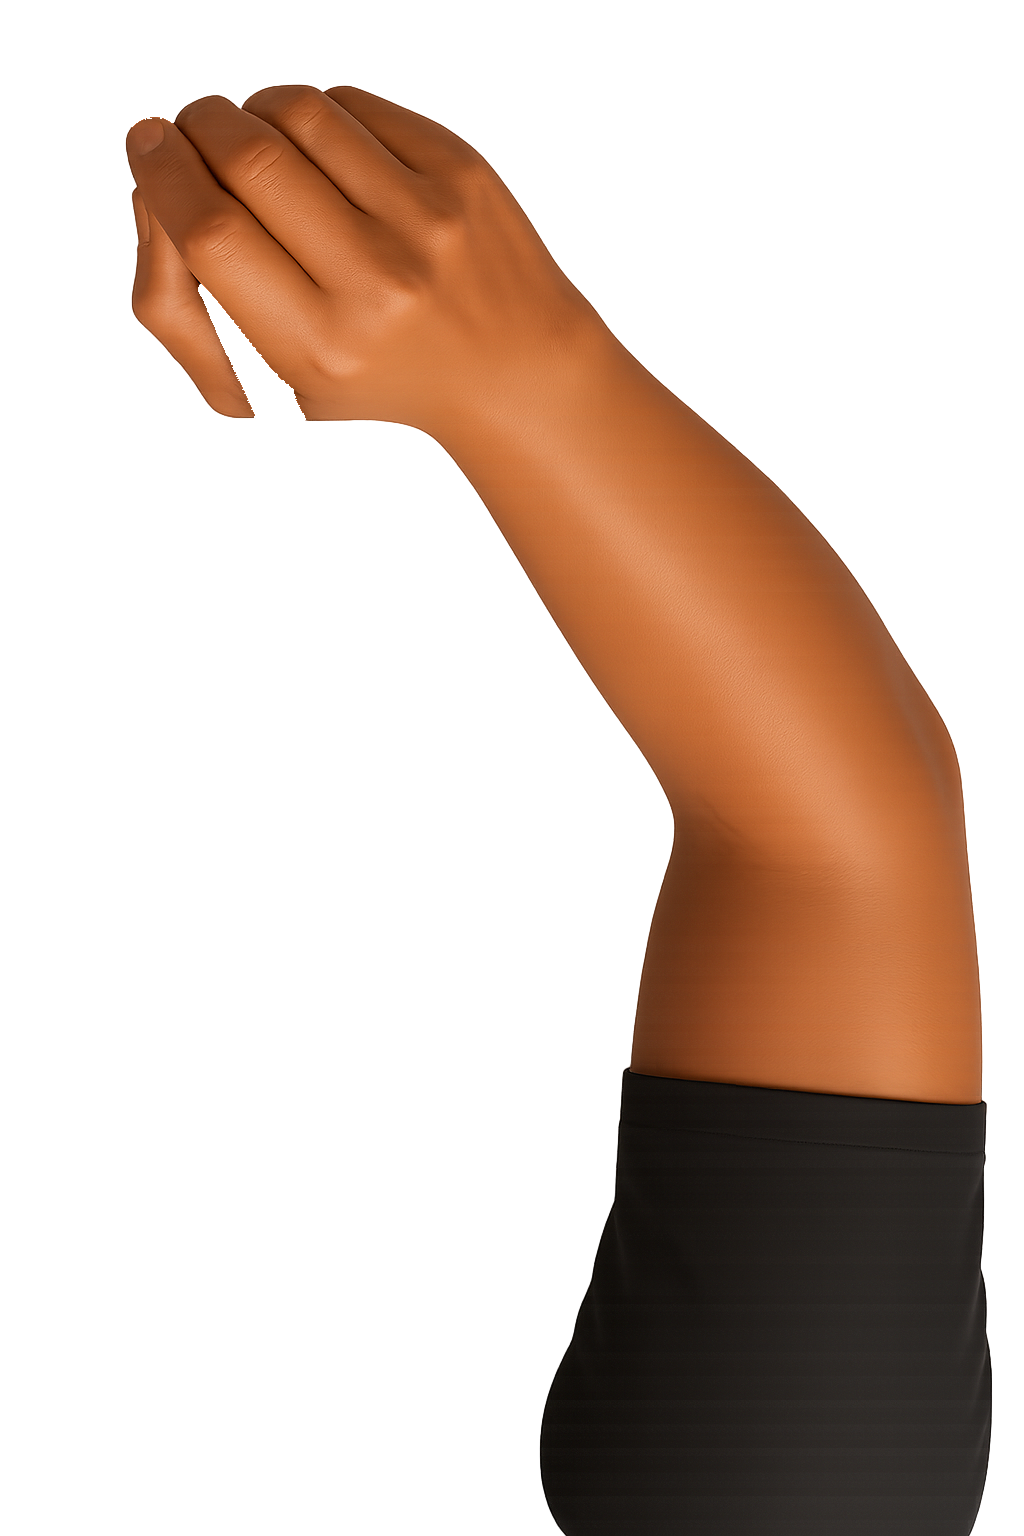
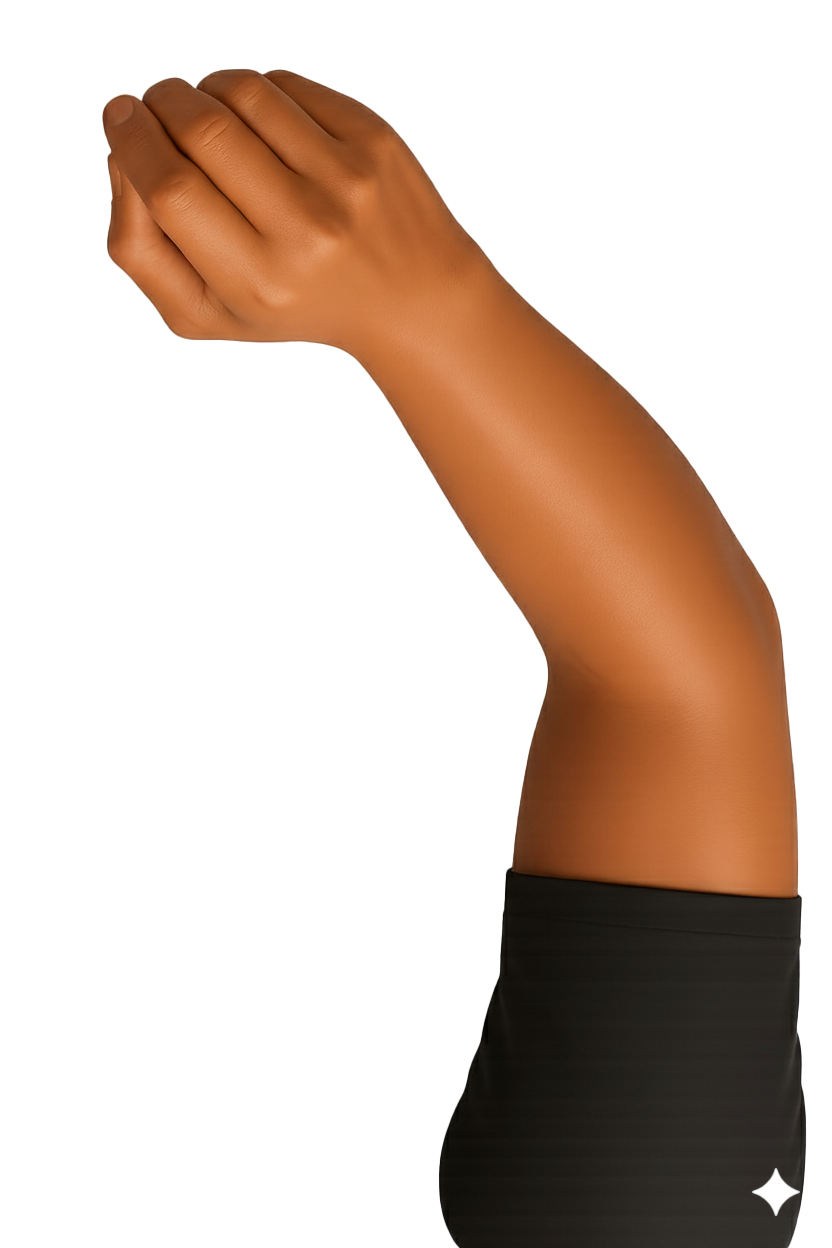
Update hand tool calibrations and presets, add new hand and tool assets, adjust default hand scale

Changed region(s): [[0.1875, 0.1875, 0.3125, 0.2812], [0.9062, 0.9375, 0.9688, 0.9688]]

diff --git a/frontend/src/features/properties-panel/domain/constants.ts b/frontend/src/features/properties-panel/domain/constants.ts
@@ -19,7 +19,7 @@ export const PROPERTY_RANGES: Record<string, RangeConfig> = {
   fontSize: { min: 8, max: 72, step: 1, default: 16, unit: 'px' },
   animationStart: { min: 0, step: 0.1, default: 0, unit: 's' },
   animationDuration: { min: 0.1, step: 0.1, default: 5, unit: 's' },
-  handScale: { min: 0.1, max: 5, step: 0.1, default: 1 },
+  handScale: { min: 0.1, max: 5, step: 0.1, default: 5 },
   smoothingStrength: { min: 0.05, max: 0.5, step: 0.05, default: 0.15 },
   jitterIntensity: { min: 0, max: 0.1, step: 0.01, default: 0.02 },
   cornerLiftAngle: { min: 15, max: 60, step: 5, default: 30, unit: 'deg' },
